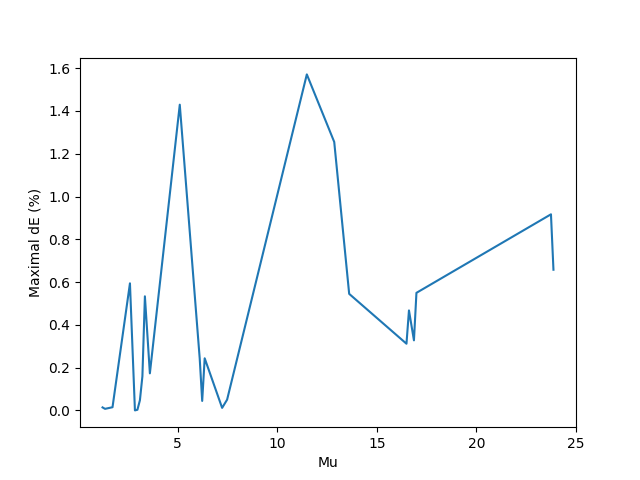
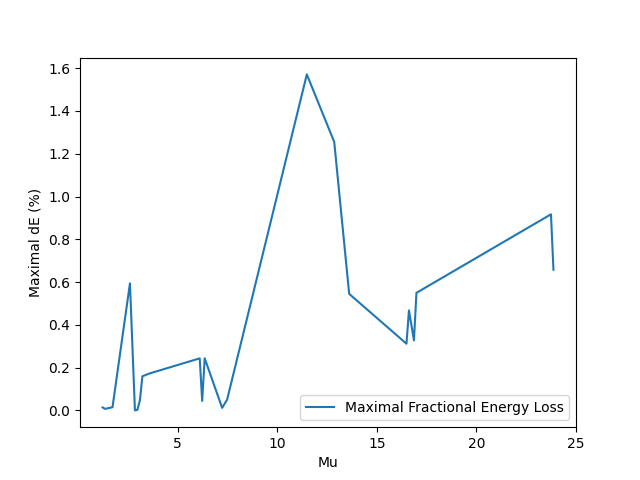
Labelling Update

Changed region(s): [[0.2188, 0.2188, 0.3125, 0.7812], [0.5312, 0.8125, 0.9062, 0.875], [0.4688, 0.8438, 0.5, 0.875]]

diff --git a/src/Trajectories.py b/src/Trajectories.py
@@ -21,13 +21,13 @@ for u in [2,3,5,6,16,19,21,24]:
     X = r*np.sin(theta); Y = -r*np.cos(theta)
     sc = ax[int(i/4)][i%4].scatter(X,Y,s=0.5,c=dET,alpha=0.8,)
     ax[int(i/4)][i%4].set_aspect('equal','datalim')
-    ax[int(i/4)][i%4].set_title('mu = ' + str(u))
+    ax[int(i/4)][i%4].set_title('$\\mu$ = ' + str(u))
 
     (plt.colorbar(sc,ax=ax[int(i/4)][i%4])).formatter.set_powerlimits((0, 0))
 
     i+=1
 
-plt.suptitle('Trajectories for diverse mass ratio (Theta_0 = pi/2  &  No initial velocity)')
+plt.suptitle('Trajectories for diverse mass ratio ($\\theta_0$ = $\\pi$/2  &  No initial velocity)')
 plt.savefig('../results/Trajectories-1S-Explicit.png')
 plt.show()
 
@@ -44,17 +44,17 @@ for u in [2,3,5,6,16,19,21,24]:
     X = r*np.sin(theta_m); Y = -r*np.cos(theta_m)
     sc = ax[int(i/4)][i%4].scatter(X,Y,s=0.5,c=dET,alpha=0.8,)
     ax[int(i/4)][i%4].set_aspect('equal','datalim')
-    ax[int(i/4)][i%4].set_title('mu = ' + str(u))
+    ax[int(i/4)][i%4].set_title('$\\mu$ = ' + str(u))
 
     (plt.colorbar(sc,ax=ax[int(i/4)][i%4])).formatter.set_powerlimits((0, 0))
 
     i+=1
 
-plt.suptitle('Trajectories for diverse mass ratio (Theta_0 = pi/2  &  No initial velocity)')
+plt.suptitle('Trajectories of m for diverse mass ratio ($\\theta_0$ = $\\pi$  &  No initial velocity)')
 plt.savefig('../results/Trajectories-2S-Explicit.png')
 plt.show()
 
-fig,ax = plt.subplots(2,4,figsize=(40,10))
+fig,ax = plt.subplots(2,4,figsize=(20,10))
 plt.subplots_adjust(wspace = 0.2)
 i=0
 for u in [2,3,5,6,16,19,21,24]:    
@@ -62,12 +62,12 @@ for u in [2,3,5,6,16,19,21,24]:
     X_M = (r0M + x0[0]-r)*np.sin(theta_M); Y_M = -(r0M + x0[0]-r)*np.cos(theta_M)
     sc = ax[int(i/4)][i%4].scatter(X_M,Y_M,s=0.5,c=dET,alpha=0.8,)
     ax[int(i/4)][i%4].set_aspect('equal','datalim')
-    ax[int(i/4)][i%4].set_title('mu = ' + str(u))
+    ax[int(i/4)][i%4].set_title('$\\mu$ = ' + str(u))
 
     (plt.colorbar(sc,ax=ax[int(i/4)][i%4])).formatter.set_powerlimits((0, 0))
 
     i+=1
 
-plt.suptitle('Trajectories for diverse mass ratio (Theta_0 = pi/2  &  No initial velocity)')
+plt.suptitle('Trajectories of M for diverse mass ratio ($\\theta_0$ = $\\pi$  &  No initial velocity)')
 plt.savefig('../results/Trajectories-2S-Explicit_M.png')
 plt.show()

diff --git a/src/Anim.py b/src/Anim.py
@@ -21,6 +21,7 @@ def plot_anim(X,Y,X_M,Y_M,tf,dt,dET,u,x0_M,saveName="noName"):
     
     energy = (ax[1].plot(np.arange(0,tf,dt)[0],dET[0]))[0]
     ax[1].set(xlim=[0,tf], ylim=[min(dET), max(dET)], xlabel='t', ylabel='dE (%)')
+    plt.suptitle("Animation of the system for $\\mu=3$ and $\\theta=\\pi/2$")
     
     def update(num, x, y, scat, energy, mPoint, MPoint, Rope):
         #Update the trace
@@ -47,13 +48,43 @@ dt = 0.01
 x0_M = -10
 r0_M = 3
 
-x0 = np.array([ 3, 0, np.pi/4, 0  ])
+x0 = np.array([ 3, 0, np.pi/2, 0  ])
 ropeLength = r0_M + x0[0]
 
 r,pr,theta,ptheta,dET = OneSwinging_2D_Explicit.integrate(u=u, tf=tf, dt=dt, x0=x0)
 X = r*np.sin(theta); Y = -r*np.cos(theta)
 X_M = np.full(len(r),x0_M); Y_M = r - ropeLength
 plot_anim(X,Y,X_M,Y_M,tf,dt,dET,u,x0_M,"Anim_u=3-1S-Explicit.gif")
+
+
+
+u = 10
+tf = 10
+dt = 0.01
+x0_M = -10
+r0_M = 3
+
+x0 = np.array([ 3, 0, np.pi/2, 0  ])
+ropeLength = r0_M + x0[0]
+
+r,pr,theta,ptheta,dET = OneSwinging_2D_Explicit.integrate(u=u, tf=tf, dt=dt, x0=x0)
+X = r*np.sin(theta); Y = -r*np.cos(theta)
+X_M = np.full(len(r),x0_M); Y_M = r - ropeLength
+plot_anim(X,Y,X_M,Y_M,tf,dt,dET,u,x0_M,"Anim_u=10-1S-Explicit.gif")
+
+u = 1.665
+tf = 10
+dt = 0.01
+x0_M = -10
+r0_M = 3
+
+x0 = np.array([ 3, 0, np.pi/2, 0  ])
+ropeLength = r0_M + x0[0]
+
+r,pr,theta,ptheta,dET = OneSwinging_2D_Explicit.integrate(u=u, tf=tf, dt=dt, x0=x0)
+X = r*np.sin(theta); Y = -r*np.cos(theta)
+X_M = np.full(len(r),x0_M); Y_M = r - ropeLength
+plot_anim(X,Y,X_M,Y_M,tf,dt,dET,u,x0_M,"Anim_u=1,665-1S-Explicit.gif")
 
 
 #Initial : (

diff --git a/src/Mass_Independance.py b/src/Mass_Independance.py
@@ -1,0 +1,53 @@
+import OneSwinging_2D_Explicit
+import TwoSwinging_2D_Explicit
+
+import matplotlib.pyplot as plt
+import matplotlib.animation as animation
+import matplotlib.lines as mlines
+from matplotlib import cm
+import numpy as np
+
+fig,ax = plt.subplots(1,2,figsize=(8,4))
+
+u = 3
+m = 1
+tf = 10
+dt = 0.01
+x0_M = -10
+r0_M = 3
+t = np.arange(0,tf,dt)
+
+x0 = np.array([ 3, 0, np.pi/4, 0  ])
+ropeLength = r0_M + x0[0]
+
+r,pr,theta,ptheta,dET = OneSwinging_2D_Explicit.integrateMass(m=m, M=u*m, tf=tf, dt=dt, x0=x0)
+
+ax[0].plot(t,r,label="m=1, M=3")
+ax[1].plot(t,theta,label="m=1, M=3")
+
+m = 2
+r,pr,theta,ptheta,dET = OneSwinging_2D_Explicit.integrateMass(m=m, M=u*m, tf=tf, dt=dt, x0=x0)
+
+ax[0].plot(t,r,label="m=2, M=6")
+ax[1].plot(t,theta,label="m=2, M=6")
+
+
+m = 3
+r,pr,theta,ptheta,dET = OneSwinging_2D_Explicit.integrateMass(m=m, M=u*m, tf=tf, dt=dt, x0=x0)
+
+ax[0].plot(t,r,label="m=3, M=9")
+ax[1].plot(t,theta,label="m=3, M=9")
+
+ax[0].set(xlabel='t', ylabel='r')
+ax[1].set(xlabel='t', ylabel='$\\theta$')
+
+plt.legend()
+plt.suptitle("Independance of the motion under mass multiplication")
+plt.savefig('../results/Mass-Independance-1S-Explicit.png')
+plt.show()
+
+
+r1,pr,theta,ptheta,dET = OneSwinging_2D_Explicit.integrateMass(m=m, M=u*m, tf=tf, dt=dt, x0=x0)
+r2,pr,theta,ptheta,dET = OneSwinging_2D_Explicit.integrateMass(m=m, M=u*m, tf=tf, dt=dt, x0=x0)
+
+print(np.mean(r1-r2))

diff --git a/src/dE_by_Mu.py b/src/dE_by_Mu.py
@@ -25,14 +25,15 @@ plt.plot(U,t/max(t),label="Fractional Time Length Of The Simulation")
 
 plt.xlabel("Mu")
 plt.ylabel("Maximal dE (%)")
-
+plt.legend()
 plt.savefig('../results/dE_By_MU-1S-Explicit.png')
 plt.show()
 
 
-plt.plot(U[t/max(t)>0.95],DET[t/max(t)>0.95],label="Maximal Fractional Energy Loss")
+plt.plot(U[t/max(t)==1],DET[t/max(t)==1],label="Maximal Fractional Energy Loss")
 plt.xlabel("Mu")
 plt.ylabel("Maximal dE (%)")
+plt.legend()
 plt.savefig('../results/dE_By_MU-Masked-1S-Explicit.png')
 plt.show()
 
@@ -45,20 +46,21 @@ t = np.zeros(len(U))
 
 for i,u in enumerate(U):
     r,pr,theta_m,ptheta_m,theta_M,ptheta_M,dET = TwoSwinging_2D_Explicit.integrate(u=u, tf=tf, dt=dt, x0=x0,r0M=r0M)
-    DET[i] = min(100,max(abs(dET)))
+    DET[i] = max(abs(dET))
     t[i] = len(r)*dt
-plt.plot(U,DET,label="Clamped Maximal Fractional Energy Loss")
+plt.plot(U,DET,label="Maximal Fractional Energy Loss")
 plt.plot(U,t/max(t),label="Fractional Time Length Of The Simulation")
 
 plt.xlabel("Mu")
 plt.ylabel("Maximal dE (%)")
-
+plt.legend()
 plt.savefig('../results/dE_By_MU-2S-Explicit.png')
 plt.show()
 
 
-plt.plot(U[t/max(t)>0.95],DET[t/max(t)>0.95],label="Maximal Fractional Energy Loss")
+plt.plot(U[t/max(t)==1],DET[t/max(t)==1],label="Maximal Fractional Energy Loss")
 plt.xlabel("Mu")
 plt.ylabel("Maximal dE (%)")
+plt.legend()
 plt.savefig('../results/dE_By_MU-Masked-2S-Explicit.png')
 plt.show()

diff --git a/src/dE_by_dt_Periodic.py b/src/dE_by_dt_Periodic.py
@@ -1,0 +1,43 @@
+import OneSwinging_2D_Explicit
+import TwoSwinging_2D_Explicit
+
+import matplotlib.pyplot as plt
+import matplotlib.animation as animation
+import matplotlib.lines as mlines
+from matplotlib import cm
+import numpy as np
+import scipy
+
+tf = np.pi
+max_nStep = 10**5
+STEPS = np.linspace(10**1,max_nStep,20) 
+DT = tf/STEPS
+u=1.665
+x0 = np.array([ 3, 0, np.pi/2, 0 ])
+
+DET = np.zeros(len(DT))
+
+for i,dt in enumerate(DT):
+    r,pr,theta,ptheta,dET = OneSwinging_2D_Explicit.integrate(u=u, tf=tf, dt=dt, x0=x0)
+    E = pr**2 / (2*(u+1)) + ptheta**2 / (2*1*r**2) + u*scipy.constants.g*r - 1*scipy.constants.g*r*np.cos(theta)
+    dET = E - E[0] 
+    DET[i] = abs(dET[-1])
+plt.plot(STEPS,DET,label="Maximal Fractional Energy Loss")
+
+n_vec = 10**np.linspace(1.5,3.7,10)
+plt.plot(n_vec, 1/n_vec,":", label=r'$1/N$')
+plt.plot(n_vec, 1/n_vec**2,":", label=r'$1/N^2$')
+plt.plot(n_vec, 1/n_vec**3,":", label=r'$1/N^3$')
+plt.plot(n_vec, 1/n_vec**4,":", label=r'$1/N^4$')
+n_vec = 10**np.linspace(4.5,5,10)
+plt.plot(n_vec, 1e-17*n_vec**0.5,":", label=r'$N^{1/2}$')
+
+plt.xscale("log")
+plt.yscale("log")
+
+plt.xlabel("Number of Step")
+plt.ylabel("Final dE")
+plt.title("Energy Error at the End Dependant on the Number of Steps Taken")
+plt.legend()
+plt.savefig('../results/dE_By_dt-Periodic-1S-Explicit.png')
+plt.show()

diff --git a/src/OneSwinging_2D_Explicit.py b/src/OneSwinging_2D_Explicit.py
@@ -32,3 +32,26 @@ def integrate(u, tf, dt, x0) :
     dET = 100* (ET - ET[0])/ET[0]
 
     return r,pr,theta,ptheta,dET
+
+
+def integrateMass(m, M, tf, dt, x0) : 
+
+    #Taken from https://en.wikipedia.org/wiki/Swinging_Atwood%27s_machine
+    def derivs(t,x):
+        r,pr,theta,p_theta = x
+        dr = pr/(M+m)
+        dpr = p_theta**2 / (m*r**3) - M*scipy.constants.g + m*scipy.constants.g*np.cos(theta)
+        dtheta = p_theta / (m*r**2)
+        dp_theta = -m*scipy.constants.g*r*np.sin(theta)
+        return np.array([dr,dpr,dtheta,dp_theta])
+
+    path, i = custom_ODE_Solver.RK4(int(tf/dt),dt,x0,derivs)
+    r = path[:i,0]
+    pr = path[:i,1]
+    theta = path[:i,2]
+    ptheta  = path[:i,3]
+
+    ET = pr**2 / (2*(M+m)) + ptheta**2 / (2*m*r**2) + M*scipy.constants.g*r - m*scipy.constants.g*r*np.cos(theta)
+    dET = 100* (ET - ET[0])/ET[0]
+
+    return r,pr,theta,ptheta,dET

diff --git a/src/dE_by_dt.py b/src/dE_by_dt.py
@@ -8,7 +8,7 @@ from matplotlib import cm
 import numpy as np
 import scipy
 
-tf = 2*np.pi
+tf = np.pi
 max_nStep = 10**5
 STEPS = np.linspace(10**1,max_nStep,20) 
 DT = tf/STEPS
@@ -34,9 +34,10 @@ plt.plot(n_vec, 1e-17*n_vec**0.5,":", label=r'$N^{1/2}$')
 
 plt.xscale("log")
 plt.yscale("log")
-
+plt.legend()
 plt.xlabel("Number of Step")
-plt.ylabel("Maximal dE")
+plt.ylabel("Final dE")
+plt.title("Energy Error at the End Dependant on the Number of Steps Taken")
 
 plt.savefig('../results/dE_By_dt-1S-Explicit.png')
 plt.show()
@@ -68,9 +69,10 @@ plt.plot(n_vec, 1e-17*n_vec**0.5,":", label=r'$N^{1/2}$')
 
 plt.xscale("log")
 plt.yscale("log")
-
+plt.legend()
 plt.xlabel("Number of Step")
-plt.ylabel("Maximal dE")
+plt.ylabel("Final dE")
+plt.title("Energy Error at the End Dependant on the Number of Steps Taken")
 
 plt.savefig('../results/dE_By_dt-2S-Explicit.png')
 plt.show()
